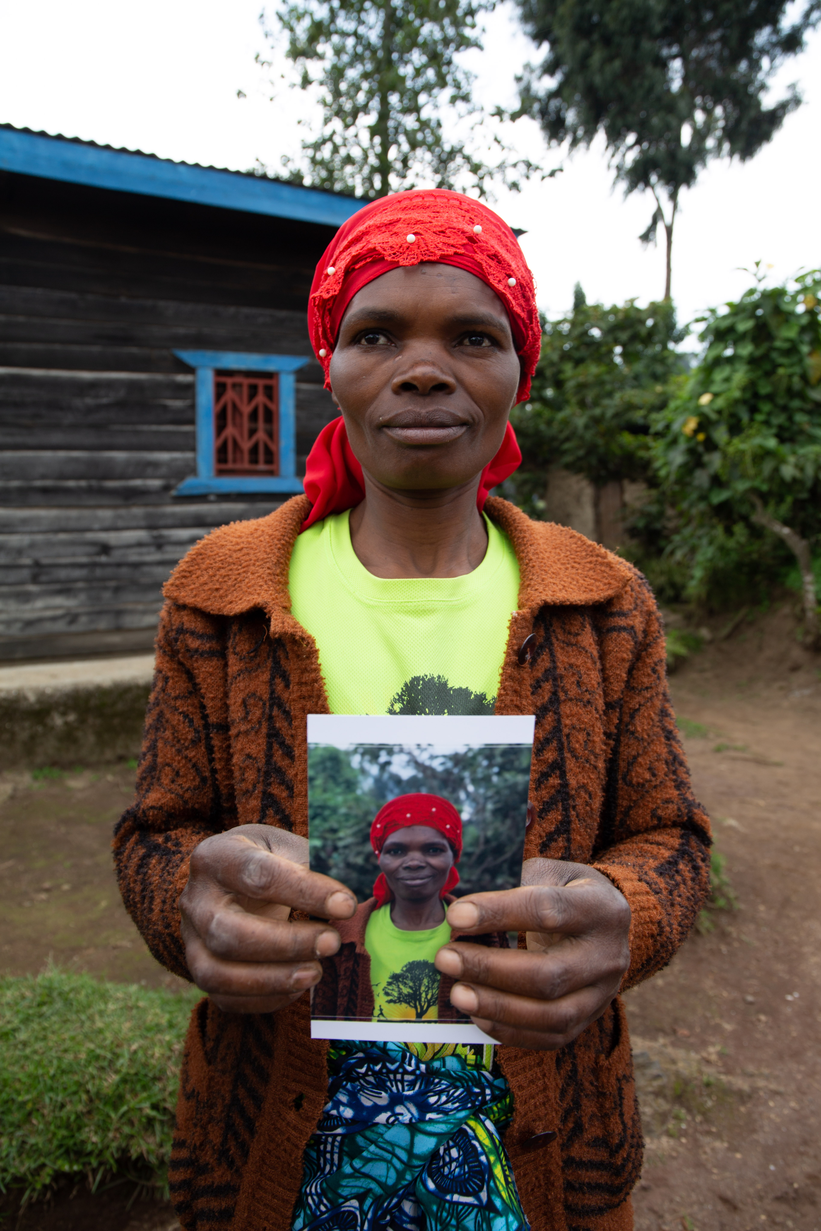
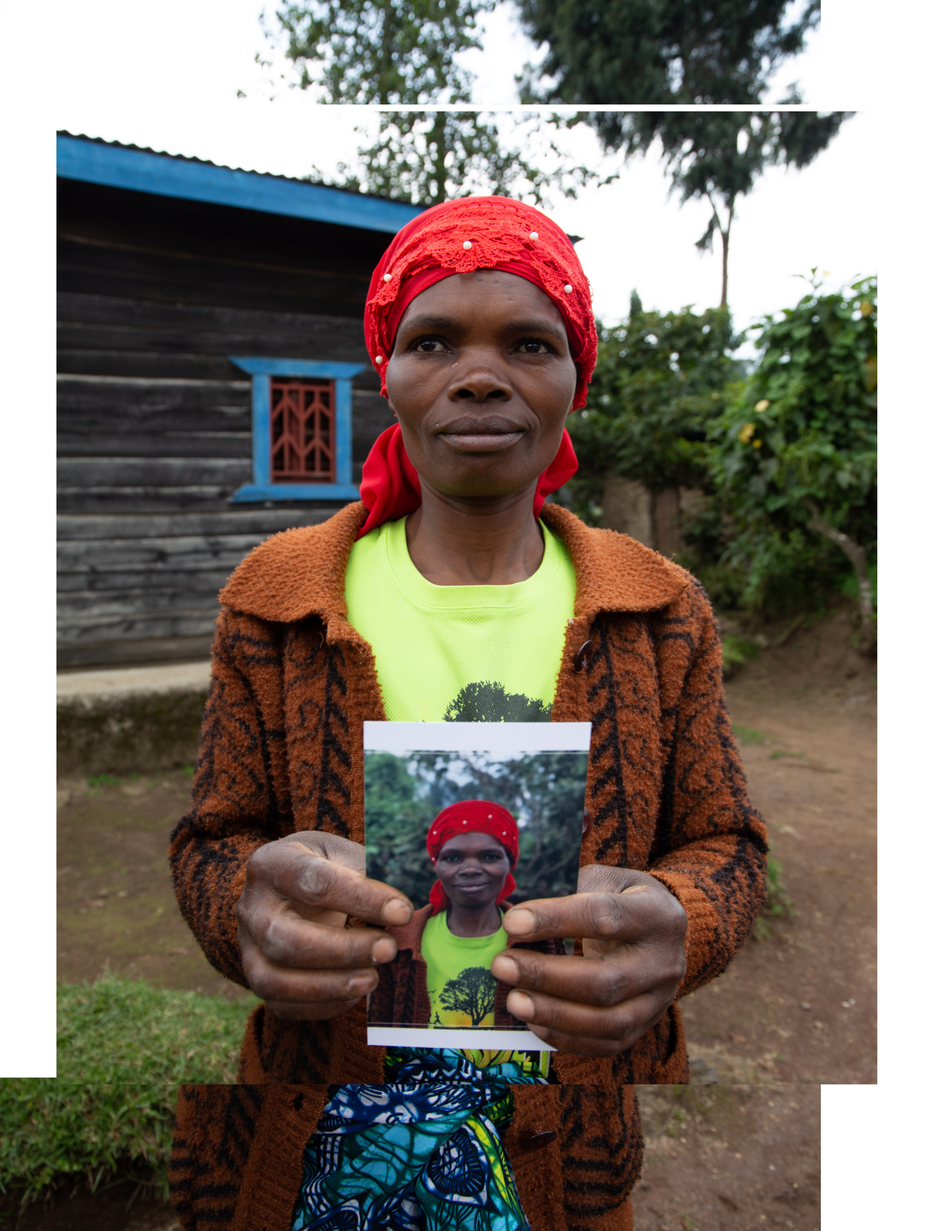
fwfw

diff --git a/app/components/Photography.tsx b/app/components/Photography.tsx
@@ -7,8 +7,8 @@ const YOUTUBE_ID = "O6aukeNQAM8";
 
 const slides = [
   { type: "video" as const, label: "PHOTOGRAPHY EXPERIENCE" },
-  { type: "image" as const, src: "/images/photoproject/kids.png", label: "THE PHOTO PROJECT" },
-  { type: "image" as const, src: "/images/photoproject/dult.png", label: "THE PHOTO PROJECT" },
+  { type: "image" as const, src: "/images/photoproject/IMG_9522.JPG.jpeg", label: "THE PHOTO PROJECT" },
+  { type: "image" as const, src: "/images/photoproject/IMG_9703.JPG.jpeg", label: "THE PHOTO PROJECT" },
 ];
 
 export default function Photography() {
@@ -38,7 +38,7 @@ export default function Photography() {
       <div className="max-w-7xl mx-auto px-6">
         <div className="grid md:grid-cols-[2fr_3fr] gap-0 items-center mb-20 bg-slate-700">
           {/* Left: Content */}
-          <div className="text-white p-12 md:p-16 min-h-[500px] flex flex-col justify-center">
+          <div className="text-white p-12 md:p-16 min-h-[650px] flex flex-col justify-center">
             <div className="text-xs tracking-[0.3em] mb-8 text-neutral-300">EXPERIENCE 02</div>
             <h2 className="text-4xl md:text-5xl font-light leading-tight mb-8">
               The Photo Project
@@ -49,7 +49,7 @@ export default function Photography() {
           </div>
 
           {/* Right: Slideshow + Video */}
-          <div className="relative h-96 md:h-[500px] overflow-hidden bg-black">
+          <div className="relative h-96 md:h-[650px] overflow-hidden bg-black">
 
             {slides.map((slide, i) => (
               <div
@@ -87,6 +87,8 @@ export default function Photography() {
               </div>
             ))}
 
+
+
             {/* Dot indicators */}
             <div className="absolute bottom-4 left-4 flex gap-2 z-20">
               {slides.map((_, i) => (
@@ -102,8 +104,6 @@ export default function Photography() {
                 />
               ))}
             </div>
-
-            {/* WATCH button on image slide */}
             {slides[current]?.type === "image" && (
               <button
                 onClick={() => goTo(1)}

diff --git a/app/components/OurStory.tsx b/app/components/OurStory.tsx
@@ -57,28 +57,20 @@ export default function OurStory() {
         </div>
         <div className="relative h-[420px] md:h-[580px] overflow-hidden border-t border-l border-neutral-200">
           <Image
-            src="/images/photoproject/IMG_9522.JPG.jpeg"
-            alt="The Camera — children with cameras"
+            src="/images/photoproject/dult.png"
+            alt="The Camera — adult with camera"
             fill
             className="object-cover"
           />
         </div>
 
-        {/* Row 3 — Image left, The Journey right */}
-        <div className="relative h-[650px] md:h-[900px] overflow-hidden border-t border-neutral-200">
-          <Image
-            src="/images/photoproject/IMG_9703.JPG.jpeg"
-            alt="The Journey"
-            fill
-            className="object-cover"
-          />
-        </div>
-        <div className="flex flex-col justify-center px-10 md:px-14 py-24 bg-[#f0ede6] border-t border-l border-neutral-200">
+        {/* Row 3 — The Journey full width */}
+        <div className="md:col-span-2 flex flex-col justify-center px-10 md:px-14 py-24 bg-[#f0ede6] border-t border-neutral-200">
           <div className="text-[10px] tracking-[0.35em] mb-4 text-amber-700">THE JOURNEY</div>
-          <h3 className="text-3xl md:text-4xl font-light mb-5 text-neutral-800 leading-snug" style={{ fontFamily: "var(--font-cormorant)" }}>
+          <h3 className="text-3xl md:text-4xl font-light mb-5 text-neutral-800 leading-snug max-w-2xl" style={{ fontFamily: "var(--font-cormorant)" }}>
             Those cameras became our profession.
           </h3>
-          <p className="text-base leading-relaxed text-neutral-600 mb-6">
+          <p className="text-base leading-relaxed text-neutral-600 mb-6 max-w-2xl">
             Today we are photographers, filmmakers and guides — and we created Green Way Safaris to share the Rwanda we know with people from around the world.
           </p>
           <a

diff --git a/app/components/WildlifeEncounters.tsx b/app/components/WildlifeEncounters.tsx
@@ -7,12 +7,11 @@ export default function WildlifeEncounters() {
   const [currentSlide, setCurrentSlide] = useState(0);
 
   const sliderImages = [
-    "/images/widlife/33.jpg",
+    "/images/widlife/3.jpeg",
+    "/images/widlife/4.jpeg",
     "/images/widlife/34.jpg",
     "/images/widlife/36.jpg",
     "/images/widlife/40.jpg",
-    "/images/widlife/42.jpg",
-    "/images/widlife/87a81d53b5eb0e58bf1fae772e6dfac8.jpg",
   ];
 
   useEffect(() => {
